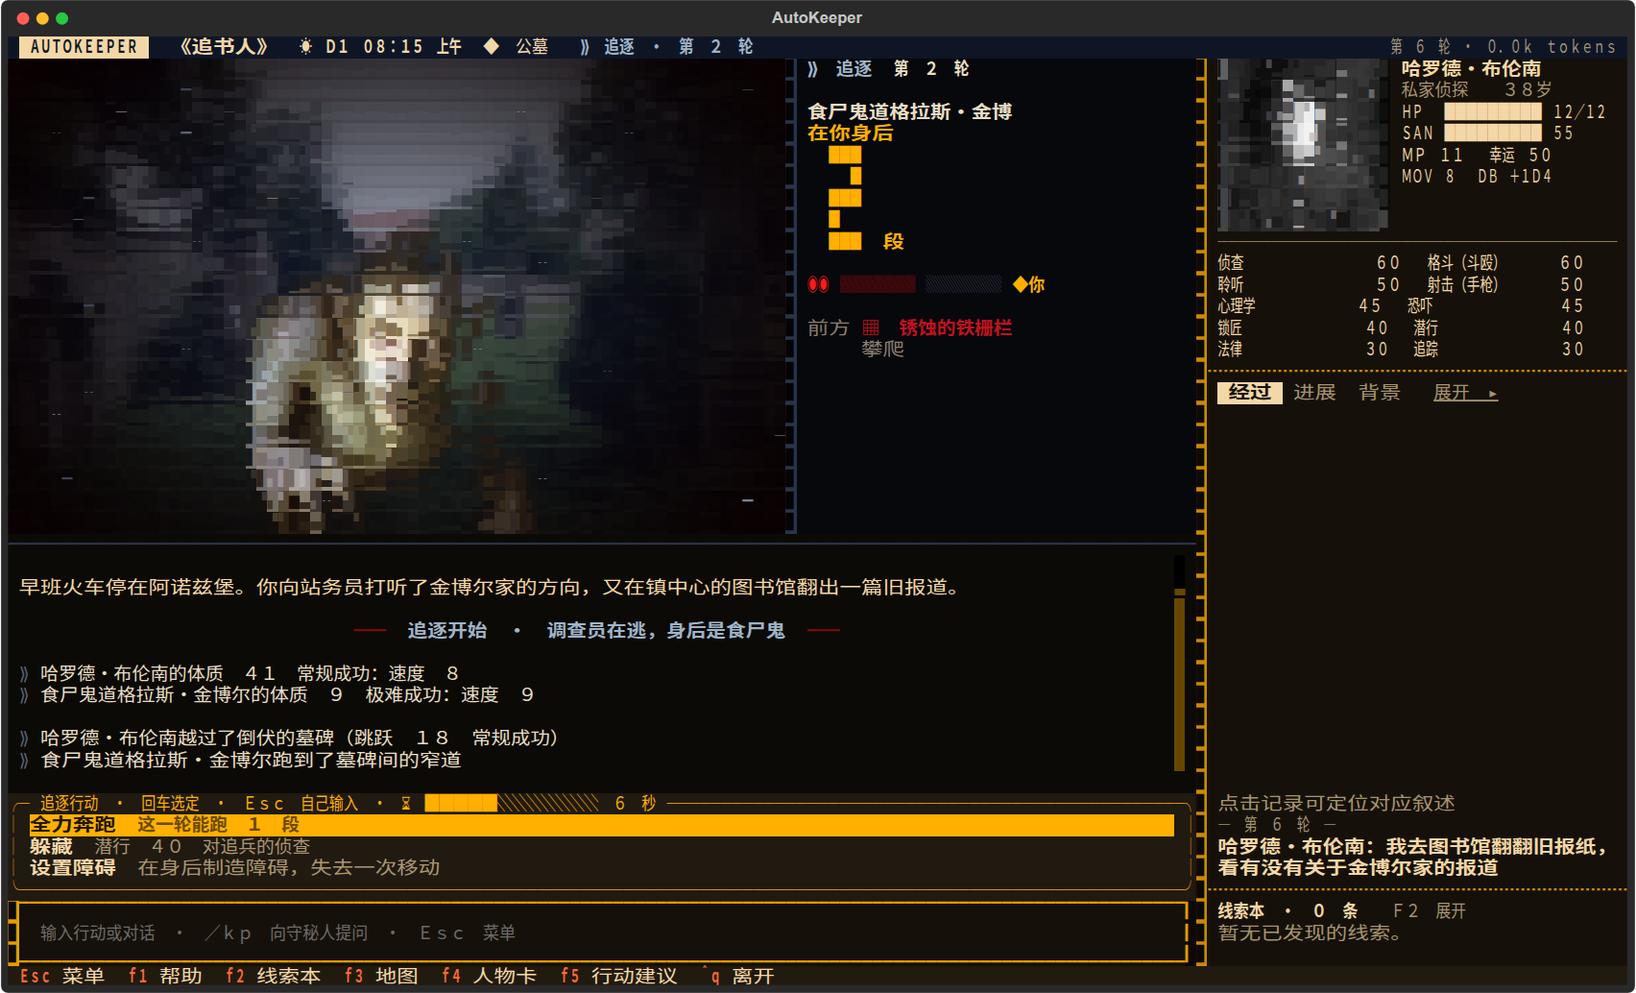
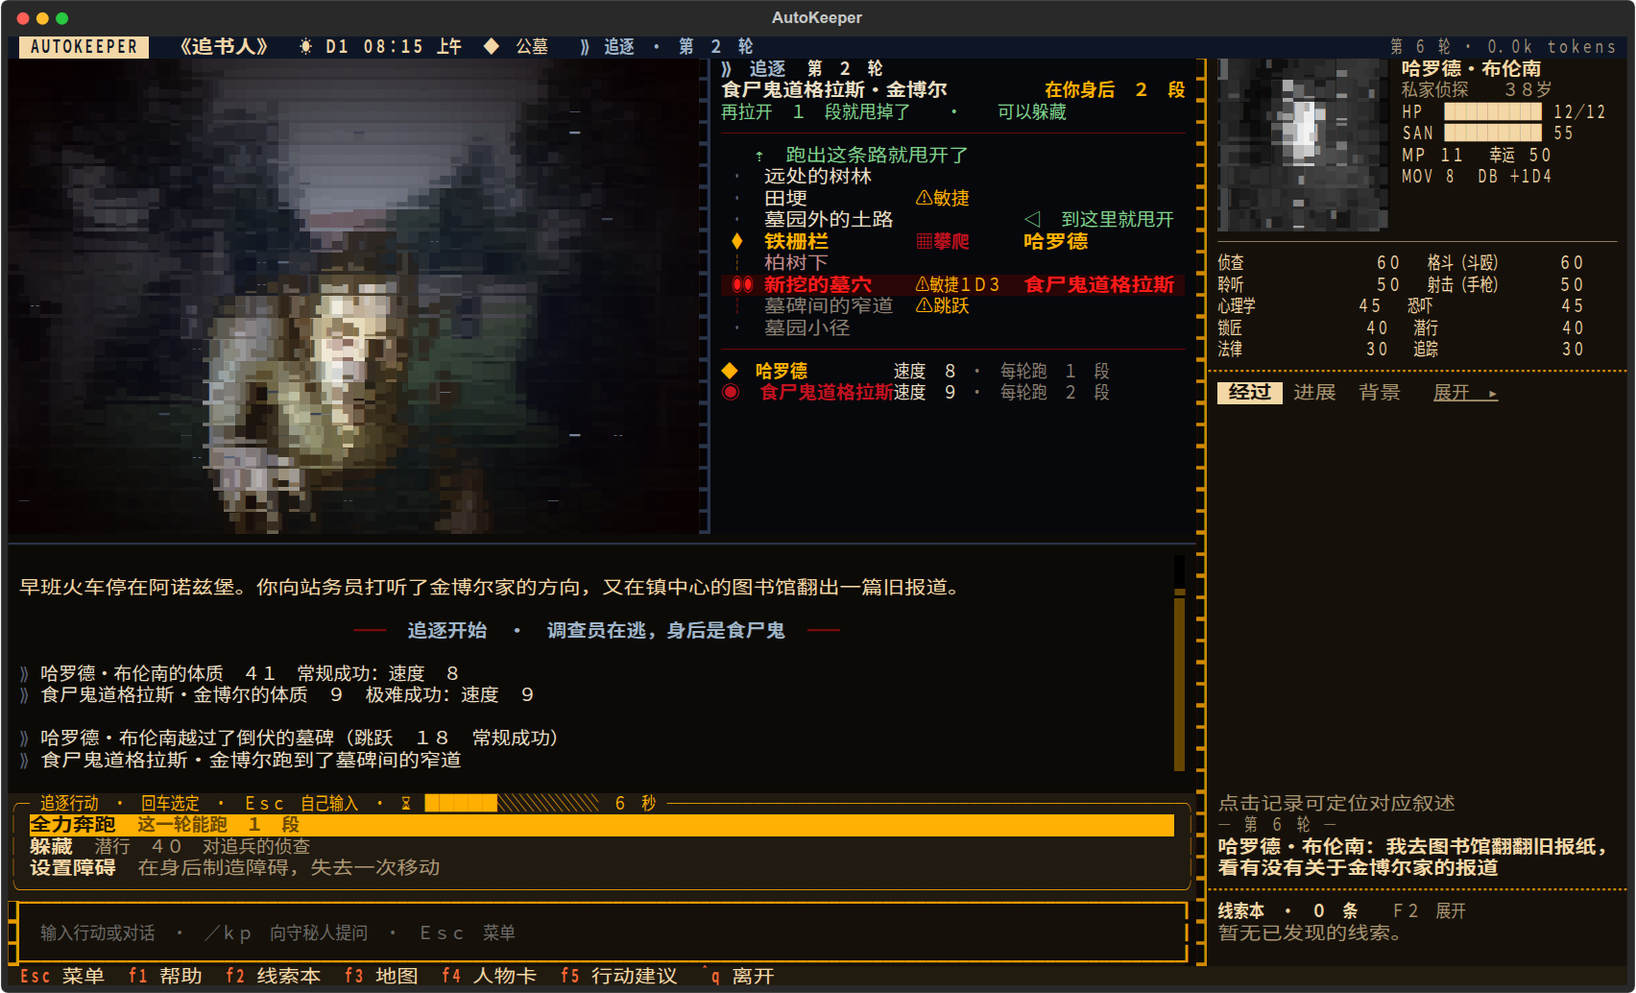
追逐：右栏画出整条路线，每段的名字、险阻与路障、谁在哪一段、这一轮跑过的痕迹和甩开的位置，下方是各人速度与每轮能跑几段

diff --git a/src/autokeeper/tui/widgets/fight.py b/src/autokeeper/tui/widgets/fight.py
@@ -23,6 +23,7 @@ import asyncio
 import time
 from functools import lru_cache
 
+from rich.cells import cell_len
 from rich.style import Style
 from rich.text import Text
 from textual import events
@@ -34,10 +35,12 @@ from textual.widgets import Static
 
 from ... import atmosphere, imagery
 from ...module.schema import Module
+from ...rules.chase import LOST, SIGHT
 from ...rules.combat import STANCES
 
 BLOOD, DEEP, EMBER, AMBER, BONE, ASH, BILE = "#c1121f", "#7a0a0a", "#ff6b35", "#ffb000", "#e8dec4", "#8a7f72", "#9bd770"
 GORE = "#ff1a1a"  # fresh blood: the claw marks, the numbers
+CHILL, MIST, SAFE = "#9fb4c8", "#5a6478", "#7fd18b"  # a chase: the cold of it, the way behind, the way out
 WOUND = {"无伤": 4, "轻伤": 3, "受伤": 2, "重伤": 1}  # segments of a foe's meter, in words
 DOWN = ("昏迷", "濒死", "死亡", "倒下")
 GONE = ("逃走", "投降")
@@ -315,7 +318,7 @@ class Arena(Horizontal):
     DEFAULT_CSS = """
     Arena { height: 20; display: none; background: #050303; }
     Arena .side { width: 38; height: 100%; padding: 0 1; border-left: tall #3a0a0a; background: #0b0505; }
-    Arena.-chase .side { border-left: tall #2a3448; background: #07080c; }
+    Arena.-chase .side { width: 46; border-left: tall #2a3448; background: #07080c; }
     Arena.-close .side { border-left: tall #c1121f; background: #160506; }
     """
 
@@ -331,6 +334,7 @@ class Arena(Horizontal):
         self.scene = ""  # a chase's place, behind what chases
         self.last_gap = 9
         self.blink = 0
+        self.was: dict[str, int] = {}  # a chase's runners where they were before the last round
 
     def compose(self) -> ComposeResult:
         yield Canvas()
@@ -347,7 +351,7 @@ class Arena(Horizontal):
         if mode != self.mode:
             self.canvas.clear()
             self.canvas.kinds = ["rush", "pulse"] if mode == "chase" else ["blood", "pulse"]
-            self.order, self.acting, self.facing, self.last_gap = [], "", "", 9
+            self.order, self.acting, self.facing, self.last_gap, self.was = [], "", "", 9, {}
         self.mode, self.view, self.m, self.style = mode, view, m, style
         self.set_class(mode == "chase", "-chase")
         if rows:
@@ -367,6 +371,9 @@ class Arena(Horizontal):
 
     def show_chase(self, view: dict, m: Module, style: str = "photo", rows: int | None = None, scene: str = "") -> None:
         """A chase: the place rushing past, and what is behind you in it, the bigger the nearer."""
+        before = self.view if self.mode == "chase" else None
+        if before is not None and before.get("round") != view.get("round"):  # a round run: the trail it left
+            self.was = {r["id"]: r["pos"] for r in before.get("runners", [])}
         self._open("chase", view, m, style, rows)
         self.scene = scene
         gap = chase_gap(view)
@@ -442,44 +449,9 @@ class Arena(Horizontal):
         return out
 
     def _chase_side(self) -> Text:
-        view = self.view or {}
-        quarry = view.get("quarry", "party")
-        runners, legs = view.get("runners", []), view.get("legs", [])
-        gap = chase_gap(view)
-        close = gap <= 1
-        them = [r for r in runners if r["side"] != "party" and r["status"] not in DOWN]
-        out = Text()
-        out.append("⟫ 追逐", style=f"bold {GORE if close else '#9fb4c8'}")
-        out.append(f"  第 {max(1, view.get('round', 1))} 轮\n\n", style=f"bold {BONE}")
-        out.append("、".join(r["name"][:10] for r in them) or "它", style=f"bold {BONE}")
-        if quarry == "party":
-            out.append("\n就在你背后！\n" if gap <= 0 else "\n在你身后\n", style=f"bold {GORE if close else AMBER}")
-        else:
-            out.append("\n在你们前面\n", style=f"bold {AMBER}")
-        if 0 < gap < 9:
-            hot = GORE if close else AMBER
-            lines = big_number(gap, f"bold {'#5a0000' if close and self.blink % 2 else hot}")
-            for i, line in enumerate(lines):
-                out.append("  ")
-                out.append_text(line)
-                out.append("  段\n" if i == 4 else "\n", style=f"bold {hot}")
-        out.append("\n")
-        span = max(1, gap) if gap < 9 else 6
-        cell = max(2, min(8, 24 // span))
-        out.append("◉◉ " if self.blink % 3 else "◎◎ ", style=f"bold {GORE}")
-        for i in range(span):
-            heat = 1 - i / max(1, span)
-            shade = "▓" if heat > 0.66 else "▒" if heat > 0.33 else "░"
-            out.append(shade * (cell - 1) + " ", style=GORE if close else DEEP if heat > 0.5 else "#3a3f52")
-        out.append("◆你\n" if quarry == "party" else "◆你们\n", style=f"bold {AMBER}")
-        me = max((r["pos"] for r in runners if r["side"] == quarry), default=0)
-        nxt = legs[me + 1] if me + 1 < len(legs) else None
-        if nxt and nxt.get("obstacle") and not nxt["obstacle"].get("open"):
-            ob = nxt["obstacle"]
-            out.append("\n前方 ", style=ASH)
-            out.append(f"{'▦' if ob['kind'] == 'barrier' else '⚠'} {ob['what']}", style=f"bold {BLOOD if ob['kind'] == 'barrier' else AMBER}")
-            out.append(f"\n     {ob['skill']}\n", style=ASH)
-        return out
+        side = self.query_one(".side", Static)
+        width, height = side.content_size.width or 42, side.content_size.height or 20
+        return chase_route(self.view or {}, width, height, self.blink, self.was)
 
     def round_begins(self, order: list[str], view: dict) -> None:
         self.order, self.acting = order, ""
@@ -510,6 +482,120 @@ class Arena(Horizontal):
         self.view, self.order, self.acting, self.facing, self.mode = None, [], "", "", ""
         self.canvas.clear()
         self.remove_class("-chase", "-close")
+
+
+def short_name(name: str) -> str:
+    """A name as a crowded line has room for: the part before the 「·」 (哈罗德·布伦南: 哈罗德)."""
+    return name.replace("・", "·").split("·")[0] or name
+
+
+def chase_route(view: dict, width: int, height: int, blink: int = 0, was: dict[str, int] | None = None) -> Text:
+    """A chase as a way up the column: the way ahead at the top, where it began at the bottom. Every
+    stretch by name with what is in the way on it and who is on it, a trail over the stretches each
+    ran this round (`was`: where they were before it); the stretch where they lose you (or it gets
+    away from you); how far behind it is and what it takes to get away; everyone's speed and how
+    many stretches a round that makes."""
+    quarry = view.get("quarry", "party")
+    runners, legs = view.get("runners", []), view.get("legs", [])
+    gap = chase_gap(view)
+    close, fleeing = gap <= 1, quarry == "party"
+    ahead = [r for r in runners if r["side"] == quarry and r["status"] not in DOWN]
+    behind = [r for r in runners if r["side"] != quarry and r["status"] not in DOWN]
+    them = [r for r in runners if r["side"] != "party" and r["status"] not in DOWN]
+    hot = GORE if close else AMBER
+    out = Text(no_wrap=True, overflow="crop")
+    out.append("⟫ 追逐", style=f"bold {GORE if close else CHILL}")
+    out.append(f"  第 {max(1, view.get('round', 1))} 轮\n", style=f"bold {BONE}")
+    if gap >= 9:
+        status = "甩开了" if fleeing else "跟丢了"
+    elif fleeing:
+        status = "就在你背后！" if gap <= 0 else f"在你身后 {gap} 段"
+    else:
+        status = f"在前面 {gap} 段"
+    who = "、".join(r["name"] for r in them) or "它"
+    out.append_text(cell_text(who, max(4, width - cell_len(status) - 1), f"bold {BONE}"))
+    out.append(" ")
+    out.append(status, style=f"bold {'reverse ' if gap <= 0 and blink % 2 else ''}{hot}")
+    out.append("\n")
+    if 0 <= gap < 9:
+        need = LOST - gap
+        if fleeing:
+            goal = f"再拉开 {need} 段就甩掉了" if need > 0 else "这一轮守住就甩掉了"
+            goal += "  ·  可以躲藏" if gap >= SIGHT else ""
+        else:
+            goal = "追上它就打起来" if gap <= 1 else f"它再拉开 {max(0, need)} 段就跑了"
+        out.append(goal + "\n", style=SAFE if fleeing and gap >= SIGHT else ASH)
+    else:
+        out.append("\n")
+    out.append("─" * width + "\n", style=DEEP)
+    # the way: as many stretches as the column holds, round the runners
+    room = max(3, height - 6 - len(runners))
+    marks = [r["pos"] for r in runners if r["status"] not in DOWN] or [0]
+    front, hind = max(marks), min(marks)
+    lo = max(0, min(hind - 1, len(legs) - room))
+    hi = min(len(legs) - 1, lo + room - 1)
+    lost = max((r["pos"] for r in behind), default=-9) + LOST if fleeing else -1
+    if hi < len(legs) - 1:
+        out.append(f"   ⋮ 前面还有 {len(legs) - 1 - hi} 段\n", style=MIST)
+    elif fleeing:
+        out.append("   ⇡ 跑出这条路就甩开了\n", style=SAFE)
+    for i in range(hi, lo - 1, -1):
+        leg = legs[i]
+        up = [r for r in ahead if r["pos"] == i and not r.get("hidden")]
+        down = [r for r in behind if r["pos"] == i]
+        hid = [r for r in ahead if r["pos"] == i and r.get("hidden")]
+        if up and down:
+            mark, mark_style = "✖", f"bold reverse {GORE}"
+        elif down:
+            mark, mark_style = ("◉◉" if blink % 3 else "◎◎"), f"bold {GORE}"
+        elif up:
+            mark, mark_style = "◆", f"bold {AMBER if fleeing else BLOOD}"
+        elif hid:
+            mark, mark_style = "◌", ASH
+        elif ran := [r for r in runners if (was or {}).get(r["id"], r["pos"]) < i < r["pos"]]:
+            mark, mark_style = "┆", f"bold {AMBER if ran[0]['side'] == 'party' else GORE}"  # run through this round
+        else:
+            mark, mark_style = "│" if hind <= i <= front else "·", DEEP if hind <= i <= front else MIST
+        hunter_row = bool(down)
+        danger = min(r["pos"] for r in behind) <= i <= max(r["pos"] for r in ahead) if ahead and behind else False
+        name_style = (f"bold {GORE}" if hunter_row else f"bold {AMBER}" if up else "#c48a8a" if danger
+                      else ASH if i < hind else BONE)
+        row = Text(no_wrap=True)
+        row.append_text(cell_text(f" {mark}", 4, mark_style))
+        row.append_text(cell_text(leg["name"], 14, name_style))
+        ob = leg.get("obstacle")
+        if ob:
+            if ob.get("open"):
+                tag, tag_style = f"▢ {ob['what']}", ASH
+            else:
+                hard = "" if ob.get("difficulty", "常规") == "常规" else ob["difficulty"][:1]
+                tag = f"{'▦' if ob['kind'] == 'barrier' else '⚠'}{ob['skill']}{hard}{ob.get('harm') or ''}"
+                tag_style = f"bold {BLOOD}" if ob["kind"] == "barrier" else AMBER
+        else:
+            tag, tag_style = "", ASH
+        row.append_text(cell_text(tag, 10, tag_style))
+        here = [*down, *up, *hid]
+        names = "、".join(short_name(r["name"]) + ("（藏）" if r.get("hidden") else "") for r in here)
+        if i == lost and fleeing and not here:
+            names, who_style = "◁ 到这里就甩开", SAFE
+        else:
+            who_style = f"bold {GORE}" if down else f"bold {AMBER}" if up else ASH
+        row.append_text(cell_text(names, max(0, width - 28), who_style))
+        if hunter_row:
+            row.stylize("on #2a0505")
+        out.append_text(row)
+        out.append("\n")
+    out.append("─" * width, style=DEEP)
+    for r in [r for r in runners if r["side"] == "party"] + [r for r in runners if r["side"] != "party"]:
+        mine = r["side"] == "party"
+        out.append("\n")
+        out.append_text(cell_text(("◆ " if mine else "◉ ") + short_name(r["name"]), 18, f"bold {AMBER if mine else BLOOD}"))
+        out.append(f"速度 {r['speed']}", style=BONE)
+        if r.get("actions"):
+            out.append(f" · 每轮跑 {r['actions']} 段", style=ASH)
+        if r["status"] in DOWN:
+            out.append(f" · {r['status']}", style=f"bold {GORE}")
+    return out
 
 
 NEAR = {0: 1.0, 1: 0.78, 2: 0.55, 3: 0.38}  # how large what chases you stands, by stretches between you

diff --git a/tests/test_fight.py b/tests/test_fight.py
@@ -256,3 +256,23 @@ async def test_the_modules_creatures_are_drawn_once_for_all_its_games(module, tm
     other.creatures = module.creatures
     scenery.fill_creatures(other)
     assert other.pictures["creature-hound"] == str(drawn)
+
+
+def test_a_chase_is_drawn_as_the_way_with_who_is_where_and_where_they_lose_you(module):
+    from autokeeper.engine import combat as battle
+    from autokeeper.engine.game import Game
+    from autokeeper.tui.widgets.fight import chase_route
+
+    state = Game.new(module, [module.pregens[0].model_copy(deep=True)], slot="route")
+    me, warden = battle.from_investigator(state.investigators[0]), battle.from_npc(module.npc("warden"))
+    me.pos, warden.pos, me.speed, warden.speed, me.actions, warden.actions = 4, 2, 8, 9, 1, 2
+    ch = battle.Chase(runners=[me, warden], track=battle.default_track("graveyard"), quarry="party", round=2)
+    lines = chase_route(battle.chase_view(ch), 44, 24, 1, was={me.id: 2, warden.id: 0}).plain.splitlines()
+    legs = [leg.name for leg in ch.track.legs]
+    row = {name: next(line for line in lines if name in line) for name in legs}
+    assert "在你身后 2 段" in lines[1] and "再拉开 1 段就甩掉了" in lines[2] and "可以躲藏" in lines[2]
+    assert lines.index(row[legs[-1]]) < lines.index(row[legs[0]])  # the way ahead at the top
+    assert "◆" in row[legs[4]] and "◉◉" in row[legs[2]] and "老守钟人" in row[legs[2]]
+    assert "┆" in row[legs[3]] and "┆" in row[legs[1]]  # run through this round
+    assert "到这里就甩开" in row[legs[5]] and "▦攀爬" in row[legs[4]]  # three ahead of it; the fence in the way
+    assert any("每轮跑 2 段" in line for line in lines)

diff --git a/dev/screenshots.py b/dev/screenshots.py
@@ -255,12 +255,13 @@ async def _chase(app, pilot, screen, m):
     ghoul = battle.from_creature(next(c for c in m.creatures if c.id == "douglas_ghoul"), portrait="creature-douglas_ghoul")
     me = battle.from_investigator(st.investigators[0])
     track = battle.default_track("graveyard")
-    me.pos, ghoul.pos, me.speed, ghoul.speed = 3, 1, 8, 9
-    st.chase = battle.Chase(runners=[me, ghoul], track=track, quarry="party", place=st.location, round=2)
+    me.pos, ghoul.pos, me.speed, ghoul.speed, me.actions, ghoul.actions = 2, 0, 8, 9, 1, 2
+    st.chase = battle.Chase(runners=[me, ghoul], track=track, quarry="party", place=st.location, round=1)
     await screen.handle({"type": "chase_start", "chase": battle.chase_view(st.chase), "line": "【追逐开始】调查员在逃，身后是食尸鬼",
                          "speeds": [f"{me.name}的体质 41 常规成功：速度 8", f"{ghoul.name}的体质 9 极难成功：速度 9"]})
     await pilot.pause(0.5)
-    await screen.handle({"type": "chase_state", "chase": battle.chase_view(st.chase),
+    me.pos, ghoul.pos, st.chase.round = 4, 2, 2  # a round run: two stretches each
+    await screen.handle({"type": "chase_round", "chase": battle.chase_view(st.chase),
                          "lines": [f"{me.name}越过了倒伏的墓碑（跳跃 18 常规成功）", f"{ghoul.name}跑到了墓碑间的窄道"]})
     await pilot.pause(4.0)
 

diff --git a/src/autokeeper/tui/modals/guide.py b/src/autokeeper/tui/modals/guide.py
@@ -163,7 +163,7 @@ PAGES = [
 
 ## 追逐
 
-逃跑或追赶时进入追逐。开始时每人过一次体质定速度，比所有追兵都快就直接甩开。追兵画在场景里，离得越近越大；舞台右侧写着还差几段和前方的东西：⚠ 是边跑边过的险阻，失败会耽搁甚至受伤；▦ 是要过检定才能通过的路障。离追兵两段以上时可以躲藏，领先三段或跑出路线就甩掉了追兵；被追上就打起来。
+逃跑或追赶时进入追逐。开始时每人过一次体质定速度，比所有追兵都快就直接甩开。追兵画在场景里，离得越近越大；舞台右侧是整条路线，写着谁在哪一段、跑到哪一段就甩开，以及路上的东西：⚠ 是边跑边过的险阻，失败会耽搁甚至受伤；▦ 是要过检定才能通过的路障。离追兵两段以上时可以躲藏，领先三段或跑出路线就甩掉了追兵；被追上就打起来。
 """),
     Page("sanity", "理智与疯狂", """
 ## 理智

diff --git a/docs/combat.md b/docs/combat.md
@@ -49,7 +49,7 @@
   - 它出手时扑近；打中调查员时爪痕划过画面并溅血（`Canvas.slashed`）。
   - 被打中时白光一闪，伤害数字用血写在上面（`Canvas.struck`）；倒下的变灰并打上十字。
   - 右栏：轮次、行动先后（正在行动的人高亮）、对手的伤势字样和四格伤势条（不给数字）、调查员的生命值。
-- **追逐**：画面是所在的地点，按「追逐」的冷色调暗下来、横向抹开，追兵按自己的轮廓合成进去，离得越近越大（`NEAR`：差三段、两段、一段、追上），每追近一段扑近一下；景物向后掠（`rush`）。右栏：还差几段（五行高的大字，一段以内变红闪动）、两者之间的路、前方的险阻（⚠）和路障（▦）。
+- **追逐**：画面是所在的地点，按「追逐」的冷色调暗下来、横向抹开，追兵按自己的轮廓合成进去，离得越近越大（`NEAR`：差三段、两段、一段、追上），每追近一段扑近一下；景物向后掠（`rush`）。右栏是整条路线（`chase_route`）：前面的路在上、来路在下，每段写名字和上面的险阻（⚠ 技能与失败的伤害）或路障（▦，打开的是 ▢），谁在哪一段，这一轮跑过的段留一道痕迹（┆），到哪一段就甩开了（领先 `LOST` 段）；上方写追兵在身后几段、还要拉开几段、能不能躲藏，下方写每个人的速度和每轮能跑几段。
 - **怪物肖像**：模组里没有图的怪物，本机有 Codex 时在后台各画一张，纯黑背景，每个模组只画一次（`Visuals.creatures`，见[AI 画图](keeper-experience.md#ai-画图)）；画好以前和没有 Codex 时由程序画（`scenery.creature`）：黑暗里的身形，下方的光照亮脸，背后是血光；深陷的眼窝里两点亮光，合不上的嘴里满是针一样的牙，血从下巴往下淌；按描述加长下颌、利爪、触手，或者一张没有脸的空洞。透明通道是它的轮廓，追逐时用它合成进地点。第一次见到时先全屏显示，再让全队过理智检定（`reveal` 事件）。
 - **屏幕效果**（`tui/screens/game.py`）：调查员受伤时全屏泛红（`BloodFlash`，按伤势占生命值的比例决定深浅，期间的按键照常传给下面），屏幕摇晃；被追上时追兵的脸占满屏幕。顶栏显示轮次和一颗按生命值快慢跳动的心。
 - **限时选择**：每轮的行动选单带倒计时（战斗 20 秒、追逐 12 秒，最后 5 秒边框变红），时间到了战斗中只防守、追逐中只全力奔跑。设置里的 `battle_timer` 关掉它；联机时一轮有自己的 7 秒窗口，不再另计时。

diff --git a/CHANGELOG.md b/CHANGELOG.md
@@ -22,7 +22,7 @@
 - 它出手时扑近画面；抓中调查员时爪痕划过画面、溅血，整个屏幕泛红摇晃，伤得越重越红。被调查员打中时它白光一闪，伤害数字用血写在它身上；倒下的变灰并打上十字。
 - 第一次看见怪物时，它先占满整个屏幕，再过理智检定；追逐中被追上时也一样。
 - 舞台右侧列出行动先后（正在行动的人高亮）、对手的伤势字样与伤势条（不给数字）和调查员的生命值。
-- 追逐时场景变冷变暗、向后掠过，追兵就站在里面，离得越近画得越大，每追近一段就扑近一下；右侧用大字写着还差几段，一段以内变红闪动，下面是前方的险阻（⚠）和路障（▦）。
+- 追逐时场景变冷变暗、向后掠过，追兵就站在里面，离得越近画得越大，每追近一段就扑近一下；右侧是整条路线：前面的路在上、来路在下，每段写着名字和上面的险阻（⚠）或路障（▦），谁在哪一段，这一轮跑过的段留下痕迹，到哪一段就能甩开；上方写追兵在身后几段、还要拉开几段、能不能躲藏，下方是每个人的速度和每轮能跑几段。
 - 每轮的行动限时选择：战斗 20 秒、追逐 12 秒，选单上有倒计时条，最后 5 秒边框变红；时间到了战斗中只防守、追逐中只全力奔跑。设置里可以关掉（「战斗与追逐限时选择」）；联机时按 7 秒窗口，不另计时。
 - 本机有 Codex 时，模组里没有图的怪物在游戏开始后由 Codex 在后台各画一张，每个模组只画一次，以后每局都用；战斗时从黑底里抠出来放上舞台，追逐时合成进场景。
 - 画好之前或没有 Codex 时，怪物由程序画出：黑暗里的身形，下方的光照亮脸，背后是血光，深陷的眼窝里两点亮光，嘴里满是针一样的牙，血从下巴往下淌；按描述加长下颌、长出利爪、触手，或者没有脸。

diff --git a/docs/playing.md b/docs/playing.md
@@ -169,7 +169,7 @@ autokeeper --preset deepseek --budget 5
 
 规则按第 7 版：闪避与反击、以多打少的奖励骰、射击卡壳和弹药、推倒缴械制住等战技（体格差带来惩罚骰）、极难成功的最大伤害与贯穿、重伤的体质检定、濒死每轮的体质检定。对手、怪物和 AI 队友的行动由「战术」分工安排（模型设置里可以单独换），模型出错时按经验规则行动。怪物没有图片时由程序画出它的样子，第一次看见时要过理智检定。打完以后，被打伤打死的人记进世界记录，模组里因此成立的剧情标记（比如某人被打倒、调查员逃走）随之触发。
 
-逃跑或追赶时进入追逐。开始时每人过一次体质定速度，比所有追兵都快就直接甩开；否则场景变冷变暗、向后掠过，追兵画在里面，离得越近越大，每追近一段就扑近一下；舞台右侧用大字写着还差几段，以及前面的险阻（⚠，边跑边过，失败会耽搁、可能受伤）和路障（▦，要过检定才能通过）。离追兵两段以上可以躲藏，领先三段或者跑出路线就甩掉了；被追上就打起来。
+逃跑或追赶时进入追逐。开始时每人过一次体质定速度，比所有追兵都快就直接甩开；否则场景变冷变暗、向后掠过，追兵画在里面，离得越近越大，每追近一段就扑近一下；舞台右侧是整条路线：每段的名字、谁在哪一段、跑到哪一段就甩开，以及路上的险阻（⚠，边跑边过，失败会耽搁、可能受伤）和路障（▦，要过检定才能通过）。离追兵两段以上可以躲藏，领先三段或者跑出路线就甩掉了；被追上就打起来。
 
 联机时战斗和追逐的一轮同样是 7 秒的窗口：大家在窗口里各自选行动，最后一个人选完后整轮一起结算，守秘人讲一段。没在窗口里出手的玩家这一轮只防守。
 
